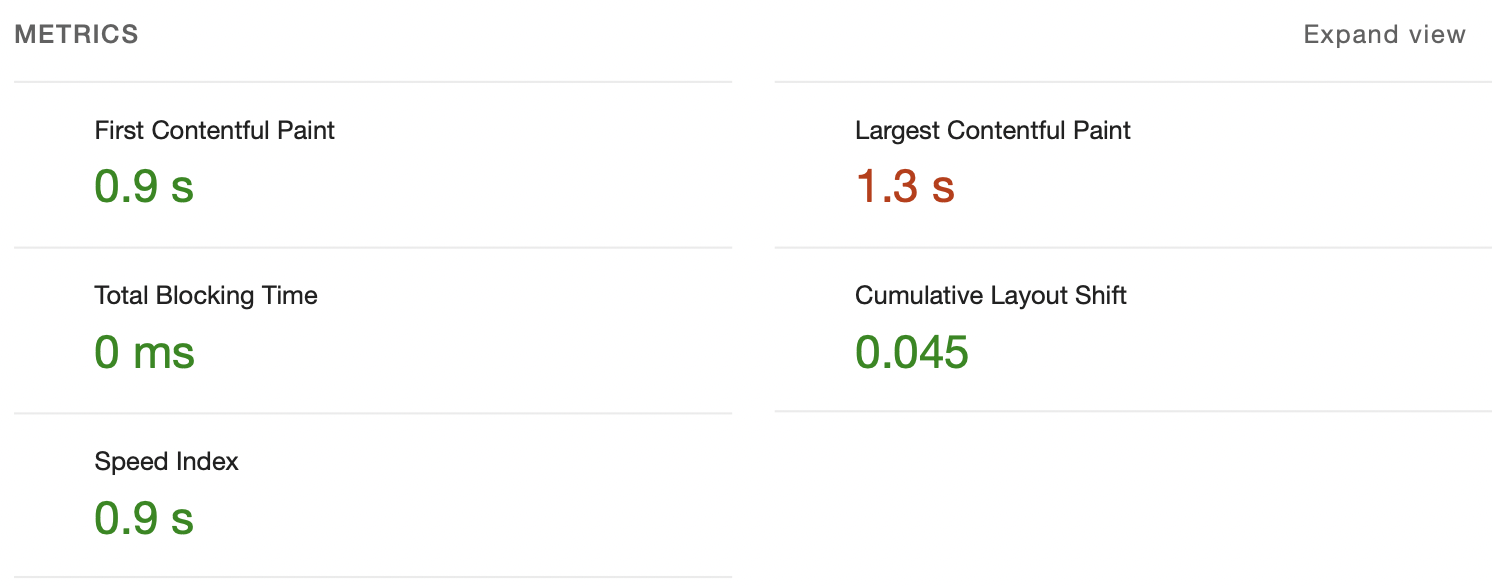
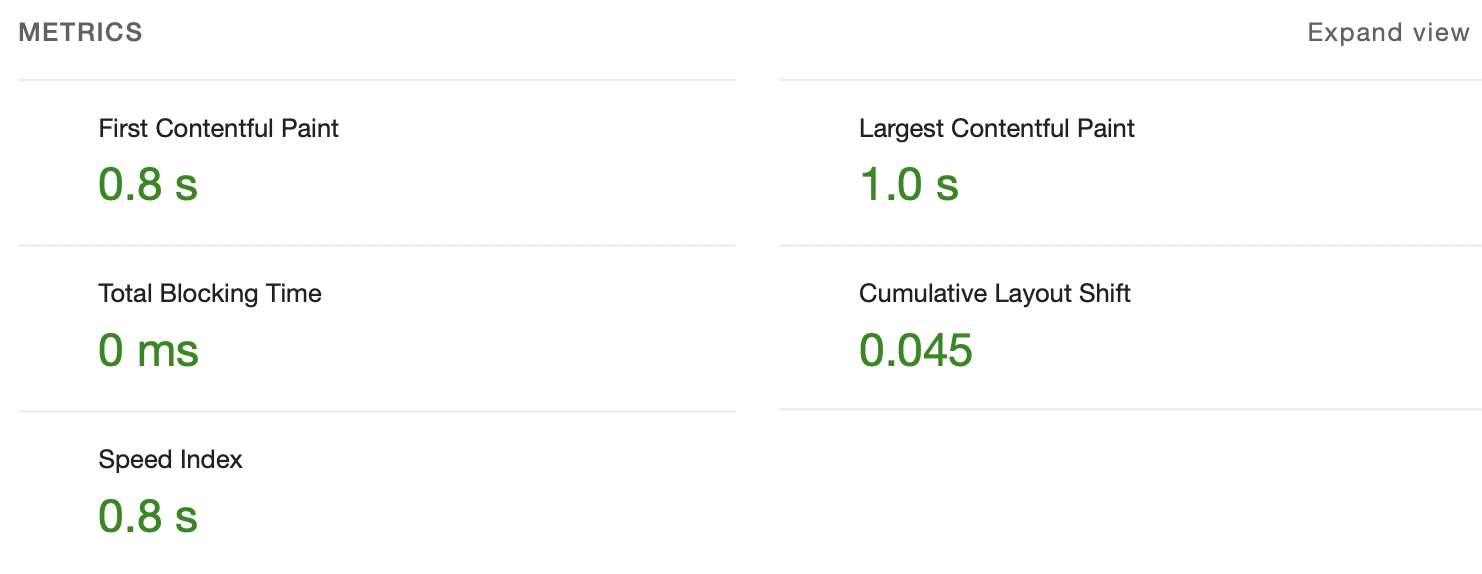
docs: readme 최적화 부분 변경

diff --git a/README.md b/README.md
@@ -345,7 +345,7 @@ https://github.com/tkdgh3050/youTIL/blob/3957d6533eee0b296df56732f5a0a4a5a39037a
 **개선 결과**
 - 메인페이지의 비디오 3개를 gif에서 mp4로 변경
 - 아이콘을 지원해주는 "Font Awesome" CDN 에 defer 적용
-- FCP 약 10% 개선, LCP 약 7% 개선
+- FCP 약 20% 개선, LCP 약 29% 개선
 
 |적용 여부|lighthouse 성능지표|
 |:---:|:---:|
